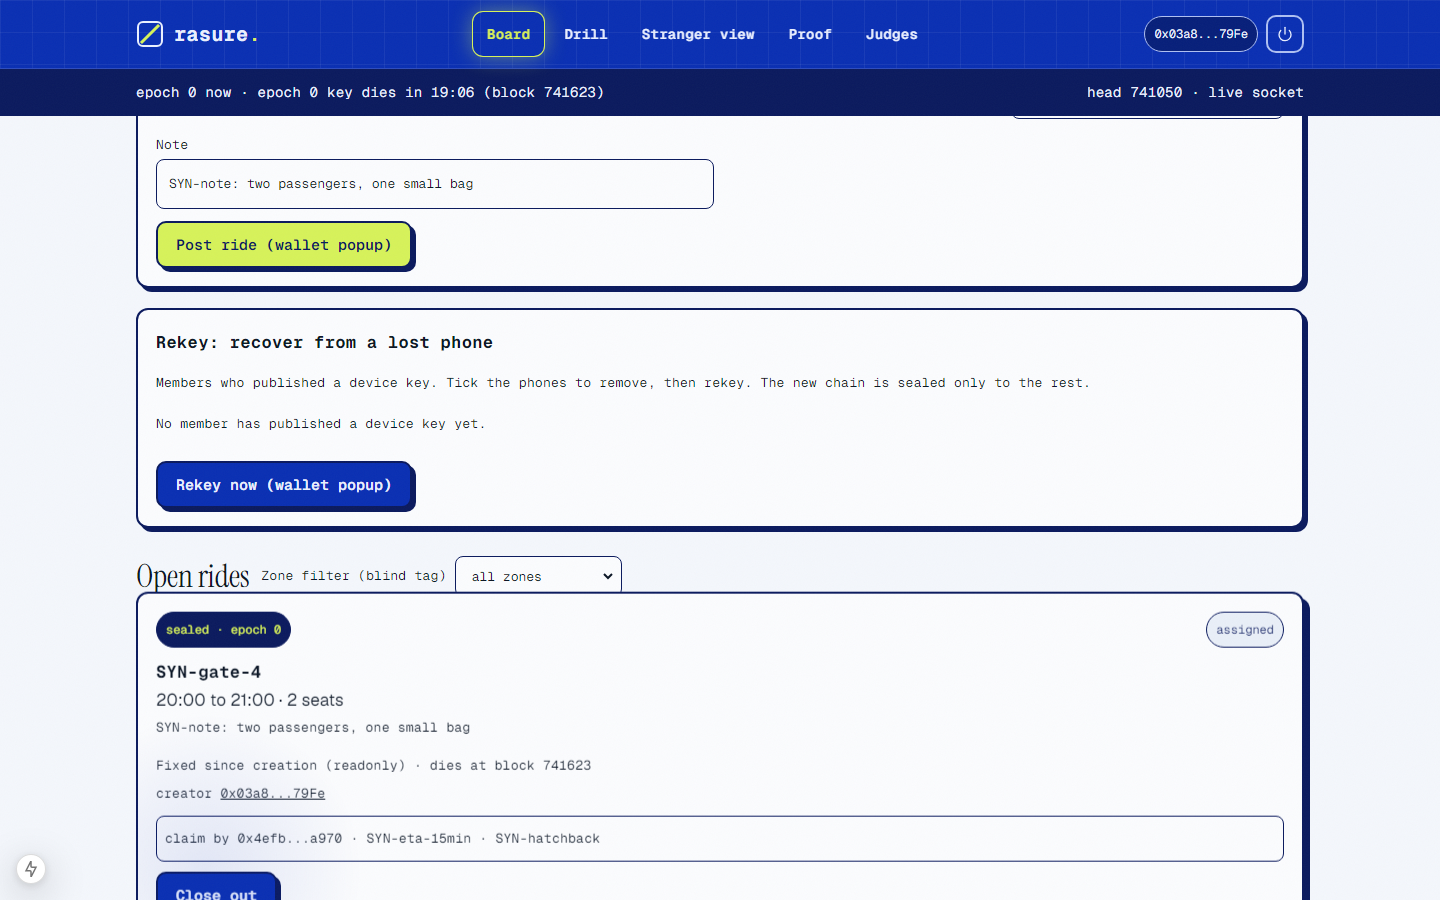
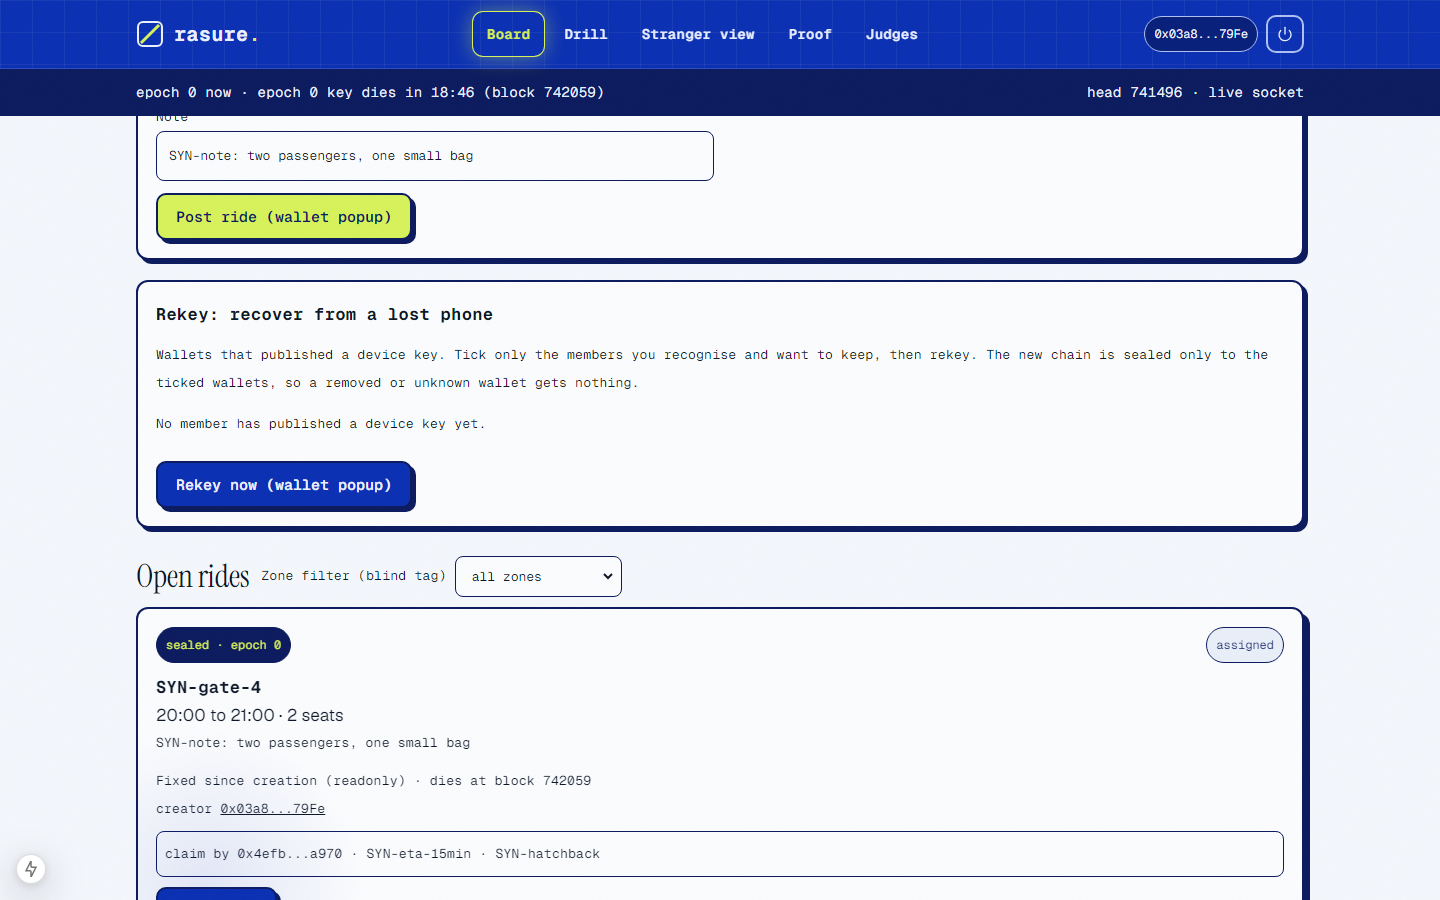
Lifetime Extension live proof; progress

diff --git a/scripts/evidence.ts b/scripts/evidence.ts
@@ -31,6 +31,12 @@ for (const f of results.filter((x) => x.startsWith("batch-"))) {
   rows.push({ label: "executeBatch: assign plus closeout in one transaction", tx: d.batchTx });
 }
 
+for (const f of results.filter((x) => x.startsWith("extend-"))) {
+  const d = rd(`proof/results/${f}`);
+  rows.push({ label: "Lifetime Extension: circle lease created", tx: d.createTx });
+  rows.push({ label: "Lifetime Extension: lease extended to a later block", tx: d.extendTx });
+}
+
 const md = [
   "# Evidence",
   "",

diff --git a/SDK_SURFACE.md b/SDK_SURFACE.md
@@ -5,7 +5,7 @@
 | Feature | How and why | Code | What the user sees |
 |---|---|---|---|
 | Entity Expiration per type | rides, claims, assigns, closeouts expire at `keyDeathBlock(epoch)` with `ExpirationTime.atBlock`; the circle is a 30 day lease with `fromBlocks`; rekey and member entities have their own lifetimes | [writes.ts:65](packages/core/src/writes.ts), [writes.ts:44](packages/core/src/writes.ts), [writes-rekey.ts](packages/core/src/writes-rekey.ts) | cards dissolve at key death; countdown strip |
-| Lifetime Extension | `extendEntity` renews the circle lease, only to a later block | [writes.ts:122](packages/core/src/writes.ts) | "Network active until block N", Renew lease button |
+| Lifetime Extension | `extendEntity` renews the circle lease, only to a later block | [writes.ts:122](packages/core/src/writes.ts) | "Network active until block N", Renew lease button; on-chain run in `proof/results/extend-2026-10-18.json` |
 | Creation flags | `readonly: true` on every sealed record; no permissionless extension, on purpose | [writes.ts:66](packages/core/src/writes.ts) | "Fixed since creation (readonly)" on each card |
 | Attributes vs payload | at most 6 public attributes, `epoch` as u64 for ranges, zone only as a rotating blind tag, all content sealed | [writes.ts:39](packages/core/src/writes.ts), [schema.ts](packages/core/src/schema.ts) | stranger view shows nothing personal |
 | Queries | compound predicates, OR-lists of `$creator`, `NOT` for forgeries, ranges on `epoch` and `$expiresAt` | [queries.ts](packages/core/src/queries.ts) | board, Ignored panel, audits |
@@ -13,7 +13,7 @@
 | `$creator` | trust for rides (I4) and assignments (I7) | [decide.ts:16](packages/core/src/decide.ts), [decide.ts:27](packages/core/src/decide.ts) | "Ignored: not written by a trusted dispatcher" |
 | Cursor pagination pinned with `atBlock` | every page of a walk is read at one block; a changed snapshot aborts | [read.ts:101](packages/core/src/read.ts) | consistent board |
 | WebSocket entity events | `watchEntityEvents` on a WebSocket transport, no `fromBlock` | [BoardClient.tsx:105](apps/web/components/board/BoardClient.tsx) | the board updates without refresh |
-| Batch writes | `executeBatch` assigns one claim and closes a previous ride in one transaction | [writes.ts:110](packages/core/src/writes.ts) | one wallet popup, both land or neither |
+| Batch writes | `executeBatch` assigns one claim and closes a previous ride in one transaction | [writes.ts:110](packages/core/src/writes.ts) | one wallet popup, both land or neither; on-chain run in `proof/results/batch-2026-10-18.json` |
 | Historical queries (`atBlock`) | the drill, the leak audit and D2 read the past on purpose | [d2-atblock.ts:24](scripts/discovery/d2-atblock.ts), [leak-audit.ts:23](scripts/leak-audit.ts) | drill rows |
 | Direct JSON-RPC | calldata recovery with `eth_getTransactionByHash`, curl for every query | [calldata.ts](packages/core/src/calldata.ts) | drill, stranger view, proof page |
 

diff --git a/arkiv/evidence.md b/arkiv/evidence.md
@@ -49,8 +49,10 @@ Generated by `scripts/evidence.ts` from the manifests and result files in `proof
 | rekey run rekey | [0x62b11d6d71...](https://tiramisu.explorer.arkiv.network/tx/0x62b11d6d71c732700730ecf7153bc8792606e42eeda1f1c472b3cecc8ebddc89) | `0x503a88435ecd...` |
 | rekey run ride | [0xe3708f3c0f...](https://tiramisu.explorer.arkiv.network/tx/0xe3708f3c0fa1851b6ea771f23814255e9c9a3f2c956e97011cab2be398f62a96) | `0x598173e5f2f4...` |
 | rekey run ride | [0x9453b59dc1...](https://tiramisu.explorer.arkiv.network/tx/0x9453b59dc10a46c1ded9dbbc0bf61e869b91faa24bb7f0eaa954232b5b594b63) | `0x3241079b5086...` |
-| board UI end-to-end run (probe wallet signed through the app) | [0x4ed4551bbc...](https://tiramisu.explorer.arkiv.network/tx/0x4ed4551bbc71cf753b74b99562239ea9c7df40d4da681899b0ec715f4e4ac39b) |  |
-| board UI end-to-end run (probe wallet signed through the app) | [0x892074dd96...](https://tiramisu.explorer.arkiv.network/tx/0x892074dd9616b647671b8fc105f7c434b9d12f95b4093fd9766849e36e108f56) |  |
-| board UI end-to-end run (drip wallet signed through the app) | [0x97129d99b2...](https://tiramisu.explorer.arkiv.network/tx/0x97129d99b2ea5e19334d29c597a980bdaa05f2f34c8d6d3e977a9707b91370fb) |  |
-| board UI end-to-end run (probe wallet signed through the app) | [0x2892f1a1e6...](https://tiramisu.explorer.arkiv.network/tx/0x2892f1a1e6579b9bc8a2d771dfa4d5a3b6c8d8b541cd81023800ba0c32255c80) |  |
+| board UI end-to-end run (probe wallet signed through the app) | [0x63ee02f49a...](https://tiramisu.explorer.arkiv.network/tx/0x63ee02f49a7ef605941bef8db35df3a57a009e442d22226add32d06d66d0d632) |  |
+| board UI end-to-end run (probe wallet signed through the app) | [0x9b1d2a1fb3...](https://tiramisu.explorer.arkiv.network/tx/0x9b1d2a1fb3567a5897f56eb3235641be500fc0f3f411f632f7ba2804befc688f) |  |
+| board UI end-to-end run (drip wallet signed through the app) | [0x00bf0444d3...](https://tiramisu.explorer.arkiv.network/tx/0x00bf0444d3ae33bca6ad9746252e890eb19267a9be88cc27c869bee6126681e3) |  |
+| board UI end-to-end run (probe wallet signed through the app) | [0xc4b8d78bcc...](https://tiramisu.explorer.arkiv.network/tx/0xc4b8d78bccd66e1fc5feba8a4bb9ef3d7a3c9546985379e5438e319bf5875299) |  |
 | executeBatch: assign plus closeout in one transaction | [0x39d6f8d2e3...](https://tiramisu.explorer.arkiv.network/tx/0x39d6f8d2e3717e59ffc557560062e81986d7c5078c5130793003fa957db98dba) |  |
+| Lifetime Extension: circle lease created | [0x47462e7fe4...](https://tiramisu.explorer.arkiv.network/tx/0x47462e7fe45c4860a2226014c5166e0bd3cce20ecedfa60f7248f102ba53b9de) |  |
+| Lifetime Extension: lease extended to a later block | [0x84e2a6bc61...](https://tiramisu.explorer.arkiv.network/tx/0x84e2a6bc616e552f1ef073d31ea7c5dbe6b34eae8c3ce82c6a0158a0bd315d52) |  |

diff --git a/PROGRESS.md b/PROGRESS.md
@@ -2,28 +2,21 @@
 
 Last update: 2026-10-18.
 
-## Done
-- Phase 0 except first push (repo `0xkinno/rasure` must exist; see Blockers).
+## Done and verified on Tiramisu
+- Phases 0, 1, 2 (except the demo seed, running), 3, and the app of Phase 4 and 5.
+- D1 and D2, the seizure drill (4 scenarios), both error directions, leak audit, wild-set audit, rekey, executeBatch, Lifetime Extension, drip, relay, and an end to end write flow through the board UI. All hashes are in `arkiv/evidence.md`.
+- Playwright QA: 6 devices by 7 routes, axe WCAG 2.2 AA, no console errors, hero and glow checks.
+- Red team round 1 (rubric judge, skeptic, verifier): findings fixed in code and docs.
 
 ## In progress
-- Phase 1: keys generated (.secrets/wallets.json); scripts/fund.ts, d1-calldata.ts, d2-atblock.ts written, not yet run (wallets hold 0 GLM).
+- `scripts/seed.ts` demo circle (6 epochs of 300 blocks), then the second live spec (`npm run qa:live`).
 
-## Next
-- Kinnoski funds dispatcher and drip; then `npx tsx scripts/fund.ts`, D1, D2.
-
-## Wallet addresses (public)
-- dispatcher 0x0e02A09Fcdf1E2fe35F897Ab7A79b86B2a8B0771
-- drip 0x4efb9C1bFC33b2079F117f05EB6a5CCdAd38a970
-- volunteerA 0x31740a981E6c793907b51B877e2FBe518137c173
-- volunteerB 0x9257991047D23e58EF1b90e893924f9eB5AB25e3
-- forger 0xEa7b820BC735D519D2927658CD71bc1363578cAA
-- probe 0x03a85A77ee3b49d9DC59451279620426c26879Fe
+## Not done (needs Kinnoski)
+- Vercel deployment and the live URL in README and Devfolio.
+- Demo video with real wallet popups (script in VIDEO_SCRIPT.md).
+- History rewrite decision: an early commit contains the private instruction file with sample repo names.
+- Devfolio form answers marked PENDING, tag `submission`, final submit.
 
 ## Live vs designed
-- Nothing live yet. `packages/core` is implemented and unit tested (12 tests, typecheck clean).
-
-## Blockers
-- GitHub repo `0xkinno/rasure` does not exist yet (HTTP 404): Kinnoski creates it (public, MIT, empty).
-- Faucet funding is manual (browser wallet + CAPTCHA).
-- Calendar: official submission close is 18 October 2026 23:59 London time. Today is 18 October.
-  Full scope is being built regardless; Kinnoski decides what is submitted by the deadline.
+- Live on Tiramisu: everything listed under done.
+- Designed, not yet exercised live in a browser with a real wallet extension: the wallet modal (tested with an injected provider backed by a funded key).
